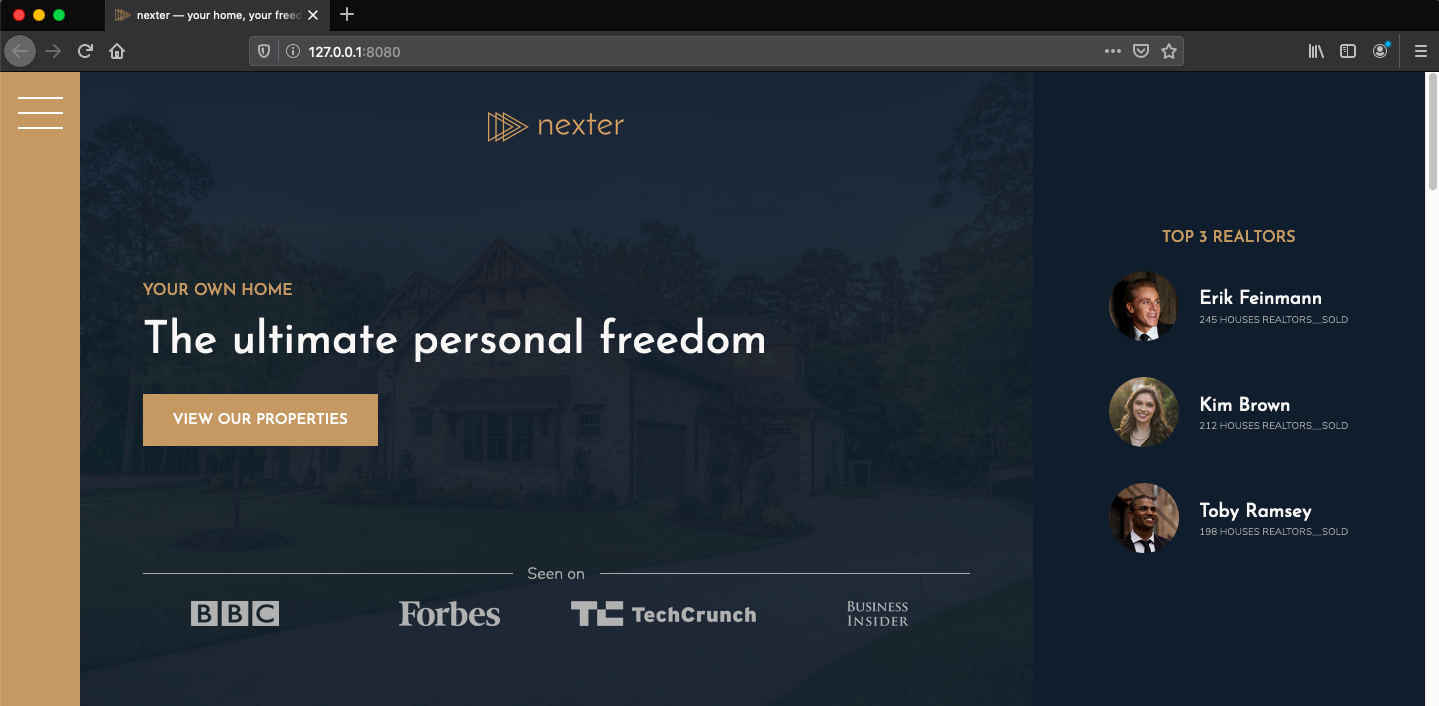
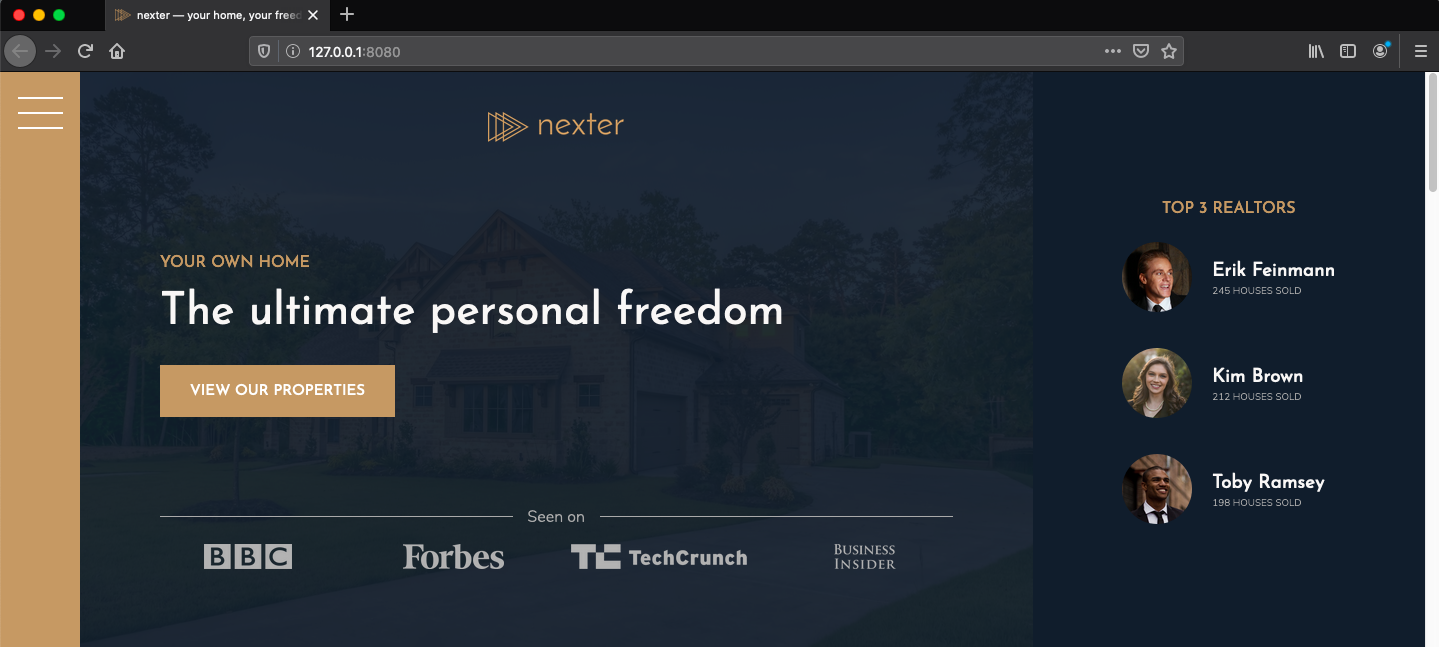
Code cleanup

diff --git a/index.html b/index.html
@@ -39,17 +39,17 @@
         <img src="img/realtor-1.jpeg" alt="Realtor 1" class="realtors__img" />
         <div class="realtors__details">
           <h4 class="heading-4 heading-4--light">Erik Feinmann</h4>
-          <p class="realtors__sold">245 houses realtors__sold</p>
+          <p class="realtors__sold">245 houses sold</p>
         </div>
         <img src="img/realtor-2.jpeg" alt="Realtor 2" class="realtors__img" />
         <div class="realtors__details">
           <h4 class="heading-4 heading-4--light">Kim Brown</h4>
-          <p class="realtors__sold">212 houses realtors__sold</p>
+          <p class="realtors__sold">212 houses sold</p>
         </div>
         <img src="img/realtor-3.jpeg" alt="Realtor 3" class="realtors__img" />
         <div class="realtors__details">
           <h4 class="heading-4 heading-4--light">Toby Ramsey</h4>
-          <p class="realtors__sold">198 houses realtors__sold</p>
+          <p class="realtors__sold">198 houses sold</p>
         </div>
       </div>
     </div>

diff --git a/css/style.css b/css/style.css
@@ -208,26 +208,19 @@ body {
 
 .features {
   grid-column: center-start / center-end;
-  margin: 15rem 0; }
-  @supports (display: grid) {
-    .features {
-      display: grid;
-      grid-template-columns: repeat(auto-fit, minmax(25rem, 1fr));
-      grid-gap: 6rem;
-      align-items: start; } }
+  margin: 15rem 0;
+  display: grid;
+  grid-template-columns: repeat(auto-fit, minmax(25rem, 1fr));
+  grid-gap: 6rem;
+  align-items: start; }
 
 .feature {
-  float: left;
-  width: 33.3333%;
-  margin-bottom: 6rem;
   display: grid;
   grid-template-columns: min-content 1fr;
   grid-row-gap: 1.5rem;
-  grid-column-gap: 2.5rem; }
-  @supports (display: grid) {
-    .feature {
-      width: auto;
-      margin-bottom: 0; } }
+  grid-column-gap: 2.5rem;
+  width: auto;
+  margin-bottom: 0; }
   .feature__icon {
     fill: #c69963;
     width: 4.5rem;

diff --git a/sass/_features.scss b/sass/_features.scss
@@ -1,31 +1,19 @@
 .features {
   grid-column: center-start / center-end;
-
   margin: 15rem 0;
-
-  @supports (display: grid) {
-    display: grid;
-    //grid-template-columns: repeat(3, 1fr);
-    grid-template-columns: repeat(auto-fit, minmax(25rem, 1fr));
-    grid-gap: 6rem;
-    align-items: start;
-  }
+  display: grid;
+  grid-template-columns: repeat(auto-fit, minmax(25rem, 1fr));
+  grid-gap: 6rem;
+  align-items: start;
 }
 
 .feature {
-  float: left;
-  width: 33.3333%;
-  margin-bottom: 6rem;
-
-  @supports (display: grid) {
-    width: auto;
-    margin-bottom: 0;
-  }
-
   display: grid;
   grid-template-columns: min-content 1fr;
   grid-row-gap: 1.5rem;
   grid-column-gap: 2.5rem;
+  width: auto;
+  margin-bottom: 0;
 
   &__icon {
     fill: $color-primary;
